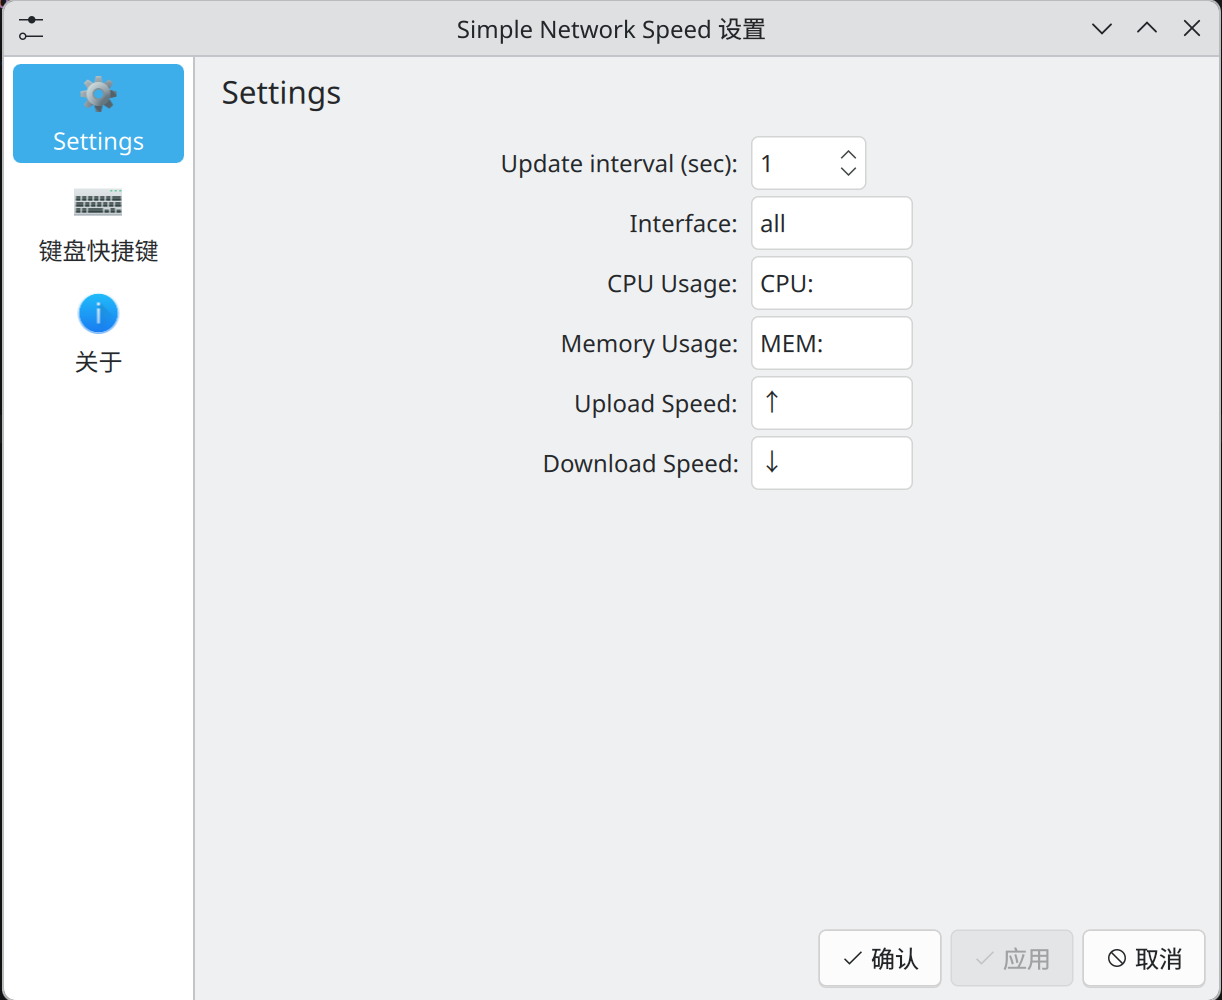
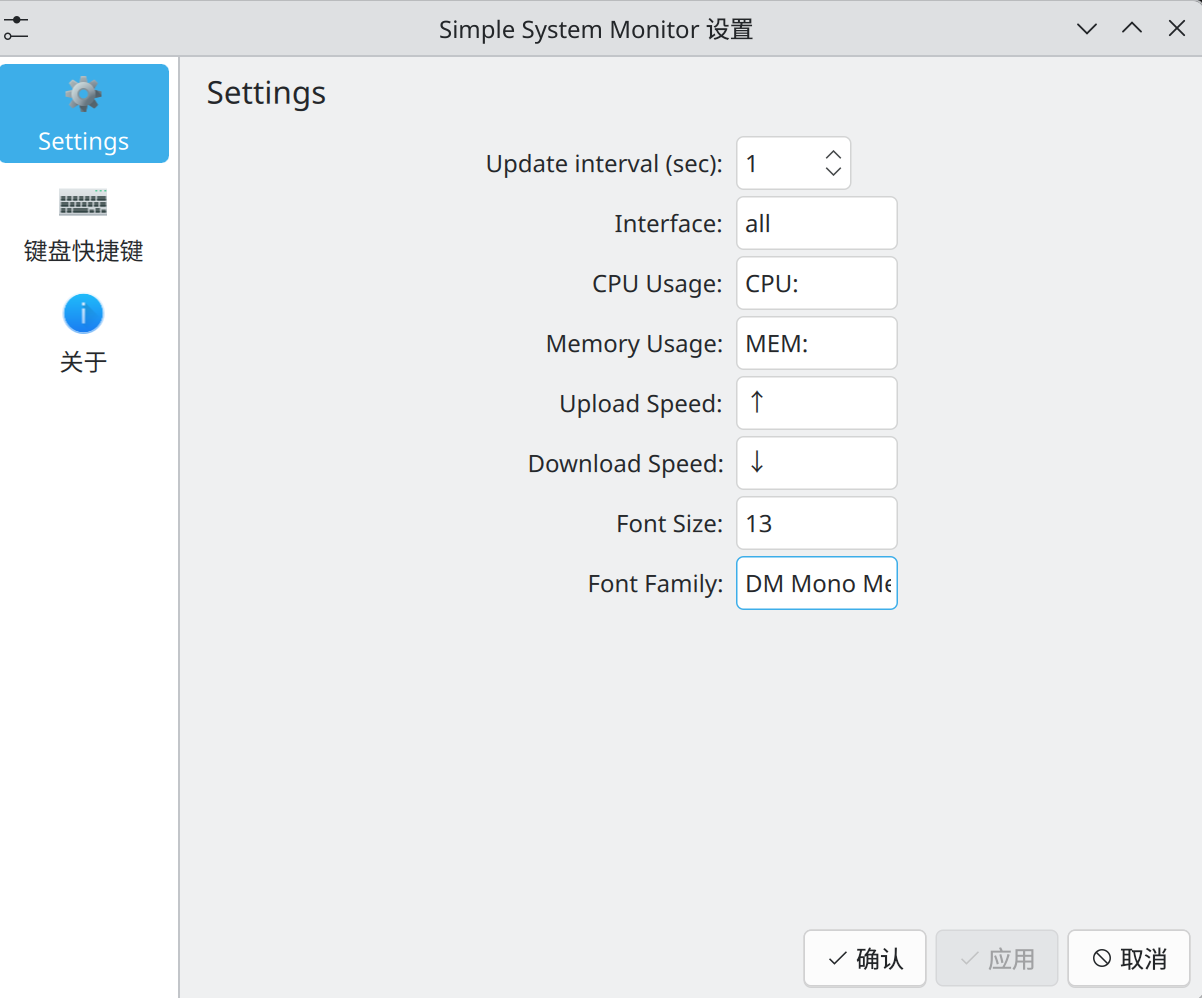
update settings.png and reorgnize datasource

diff --git a/contents/ui/main.qml b/contents/ui/main.qml
@@ -1,30 +1,26 @@
 import QtQuick
-import QtQuick.Layouts
 import QtQuick.Controls 2
-import org.kde.plasma.plasmoid
-import org.kde.plasma.core as PlasmaCore
+import QtQuick.Layouts
 import org.kde.plasma.components as PlasmaComponents
+import org.kde.plasma.core as PlasmaCore
 import org.kde.plasma.plasma5support as Plasma5Support
+import org.kde.plasma.plasmoid
 
 PlasmoidItem {
     id: root
 
-    Plasma5Support.DataSource {
-        id: launchSystemMonitor
-        engine: "executable"
-        connectedSources: []
-        onNewData: function(sourceName, data) {
-            disconnectSource(sourceName);
-        }
-    }
-
     Plasmoid.contextualActions: [
         PlasmaCore.Action {
-            text: i18nc("@item","Open System Monitor")
+            text: i18nc("@item", "Open System Monitor")
             icon.name: "utilities-system-monitor"
-            onTriggered: launchSystemMonitor.connectSource("kstart5 plasma-systemmonitor")
-        },
+            onTriggered: exec.connectSource("kstart5 plasma-systemmonitor")
+        }
     ]
+
+    readonly property string p_queryNetCommand: "cat /proc/net/dev"
+    readonly property string p_queryCpuCommand: "cat /proc/stat | head -n 1"
+    readonly property string p_queryMemCommand: "cat /proc/meminfo"
+    readonly property string p_launchSystemMonitorCommand: "kstart5 plasma-systemmonitor"
 
     readonly property int p_updateInterval: plasmoid.configuration.updateInterval || 1
     readonly property string p_interfaceName: plasmoid.configuration.interfaceName || "all"
@@ -59,99 +55,104 @@ PlasmoidItem {
     Layout.maximumWidth: metric.implicitWidth
 
     Plasma5Support.DataSource {
-        id: netSource
+        id: exec
         engine: "executable"
         connectedSources: []
-        onNewData: (sourceName, data) => {
-            let lines = data.stdout.split('\n');
-            let totalIn = 0; let totalOut = 0;
-
-            for (let i = 2; i < lines.length; i++) {
-                let line = lines[i].trim();
-                if (!line) continue;
-
-                let parts = line.replace(':', ' ').split(/\s+/);
-                let iface = parts[0];
-
-                if (iface === "lo") continue;
-
-                if (root.p_interfaceName === "all" || iface === root.p_interfaceName) {
-                    totalIn += parseInt(parts[1]) || 0;
-                    totalOut += parseInt(parts[9]) || 0;
-                }
-            }
-
-            let currentTime = Date.now();
-            let timeDiff = (currentTime - root.lastTime) / 1000;
-
-            if (root.lastTime > 0 && timeDiff > 0) {
-                downText = formatSpeed((totalIn - lastIn) / timeDiff, p_downSpeed);
-                upText = formatSpeed((totalOut - lastOut) / timeDiff, p_upSpeed);
-            }
-
-            lastIn = totalIn;
-            lastOut = totalOut;
-            root.lastTime = currentTime;
+        onNewData: function (sourceName, data) {
             disconnectSource(sourceName);
+            if (sourceName === root.p_queryNetCommand) {
+                parseNetData(data);
+            } else if (sourceName === root.p_queryCpuCommand) {
+                parseCpuData(data);
+            } else if (sourceName === root.p_queryMemCommand) {
+                parseMemData(data);
+            }
         }
     }
-    Plasma5Support.DataSource {
-        id: cpuSource
-        engine: "executable"
-        connectedSources: []
-        onNewData: (sourceName, data) => {
-            let lines = data.stdout.split('\n');
-            let cpuTotal = 0; let cpuWork = 0;
-            let line = lines[0].trim();
-            let parts = line.split(/\s+/);
 
-            cpuWork = (parseInt(parts[1]) || 0)+(parseInt(parts[2]) || 0)+ (parseInt(parts[3]) || 0);
-            cpuTotal = cpuWork+(parseInt(parts[4]) || 0)+(parseInt(parts[5]) || 0)+(parseInt(parts[6]) || 0)+
-            (parseInt(parts[7]) || 0)+(parseInt(parts[8]) || 0);
+    function parseNetData(data) {
+        let lines = data.stdout.split('\n');
+        let totalIn = 0;
+        let totalOut = 0;
 
-            let cpuUsage = (cpuWork - lastCpuWork)/(cpuTotal - lastCpuTotal) * 100;
-            if(cpuUsage >= 100) cpuUsage = 99;
-            let usageText = Math.floor(cpuUsage).toString()
-            cpuText = p_cpuUsage + " ".repeat(2-usageText.length) + usageText + "%";
+        for (let i = 2; i < lines.length; i++) {
+            let line = lines[i].trim();
+            if (!line)
+                continue;
 
-            lastCpuWork = cpuWork;
-            lastCpuTotal = cpuTotal;
-            disconnectSource(sourceName);
+            let parts = line.replace(':', ' ').split(/\s+/);
+            let iface = parts[0];
+
+            if (iface === "lo")
+                continue;
+
+            if (root.p_interfaceName === "all" || iface === root.p_interfaceName) {
+                totalIn += parseInt(parts[1]) || 0;
+                totalOut += parseInt(parts[9]) || 0;
+            }
         }
+
+        let currentTime = Date.now();
+        let timeDiff = (currentTime - root.lastTime) / 1000;
+
+        if (root.lastTime > 0 && timeDiff > 0) {
+            downText = formatSpeed((totalIn - lastIn) / timeDiff, p_downSpeed);
+            upText = formatSpeed((totalOut - lastOut) / timeDiff, p_upSpeed);
+        }
+
+        lastIn = totalIn;
+        lastOut = totalOut;
+        root.lastTime = currentTime;
     }
-    Plasma5Support.DataSource {
-        id: memSource
-        engine: "executable"
-        connectedSources: []
-        onNewData: (sourceName, data) => {
-            let lines = data.stdout.split('\n');
-            let memTotal = 0; let memAvailable = 0;
-            let line0 = lines[0].trim();
-            let parts0 = line0.split(/\s+/);
-            let line2 = lines[2].trim();
-            let parts2 = line2.split(/\s+/);
 
-            memTotal = parseInt(parts0[1]) || 0;
-            memAvailable = parseInt(parts2[1]) || 0;
+    function parseCpuData(data) {
+        let lines = data.stdout.split('\n');
+        let cpuTotal = 0;
+        let cpuWork = 0;
+        let line = lines[0].trim();
+        let parts = line.split(/\s+/);
 
-            let memUsage = (memTotal - memAvailable)/memTotal * 100;
-            if(memUsage >= 100) memUsage = 99;
-            let usageText = Math.floor(memUsage).toString()
-            memText = p_memUsage + " ".repeat(2-usageText.length) + usageText + "%";
+        cpuWork = (parseInt(parts[1]) || 0) + (parseInt(parts[2]) || 0) + (parseInt(parts[3]) || 0);
+        cpuTotal = cpuWork + (parseInt(parts[4]) || 0) + (parseInt(parts[5]) || 0) + (parseInt(parts[6]) || 0) + (parseInt(parts[7]) || 0) + (parseInt(parts[8]) || 0);
 
-            disconnectSource(sourceName);
-        }
+        let cpuUsage = (cpuWork - lastCpuWork) / (cpuTotal - lastCpuTotal) * 100;
+        if (cpuUsage >= 100)
+            cpuUsage = 99;
+        let usageText = Math.floor(cpuUsage).toString();
+        cpuText = p_cpuUsage + " ".repeat(2 - usageText.length) + usageText + "%";
+
+        lastCpuWork = cpuWork;
+        lastCpuTotal = cpuTotal;
+    }
+
+    function parseMemData(data) {
+        let lines = data.stdout.split('\n');
+        let memTotal = 0;
+        let memAvailable = 0;
+        let line0 = lines[0].trim();
+        let parts0 = line0.split(/\s+/);
+        let line2 = lines[2].trim();
+        let parts2 = line2.split(/\s+/);
+
+        memTotal = parseInt(parts0[1]) || 0;
+        memAvailable = parseInt(parts2[1]) || 0;
+
+        let memUsage = (memTotal - memAvailable) / memTotal * 100;
+        if (memUsage >= 100)
+            memUsage = 99;
+        let usageText = Math.floor(memUsage).toString();
+        memText = p_memUsage + " ".repeat(2 - usageText.length) + usageText + "%";
     }
 
     Timer {
-        interval: root.p_updateInterval * 1000;
-        running: true;
-        repeat: true;
+        interval: root.p_updateInterval * 1000
+        running: true
+        repeat: true
         triggeredOnStart: true
-        onTriggered: ()=>{
-            netSource.connectSource("cat /proc/net/dev")
-            cpuSource.connectSource("cat /proc/stat | head -n 1")
-            memSource.connectSource("cat /proc/meminfo")
+        onTriggered: {
+            exec.connectSource("cat /proc/net/dev");
+            exec.connectSource("cat /proc/stat | head -n 1");
+            exec.connectSource("cat /proc/meminfo");
         }
     }
 
@@ -159,33 +160,33 @@ PlasmoidItem {
         let num = 0;
         let unit = "B";
 
-        if( bytes < 0){
+        if (bytes < 0) {
             num = 0;
             unit = "B";
-        }else if(bytes<1000){
+        } else if (bytes < 1000) {
             num = bytes;
             unit = "B";
-        }else if(bytes<1000*1024){
+        } else if (bytes < 1000 * 1024) {
             num = bytes / 1024;
             unit = "K";
-        }else if(bytes<1000*1024*1024){
-            num = bytes / (1024*1024);
+        } else if (bytes < 1000 * 1024 * 1024) {
+            num = bytes / (1024 * 1024);
             unit = "M";
-        }else if(bytes<1000*1024*1024*1024){
-            num = bytes / (1024*1024*1024);
+        } else if (bytes < 1000 * 1024 * 1024 * 1024) {
+            num = bytes / (1024 * 1024 * 1024);
             unit = "G";
-        }else if(bytes<1000*1024*1024*1024*1024){
-            num = bytes / (1024*1024*1024*1024);
+        } else if (bytes < 1000 * 1024 * 1024 * 1024 * 1024) {
+            num = bytes / (1024 * 1024 * 1024 * 1024);
             unit = "T";
-        }else{
-            num = bytes / (1024*1024*1024*1024*1024);
+        } else {
+            num = bytes / (1024 * 1024 * 1024 * 1024 * 1024);
             unit = "P";
         }
 
         let s;
         if (num < 10) {
-            s = (Math.floor(num*10)/10).toString();
-            s = " ".repeat(3-s.length) + s;
+            s = (Math.floor(num * 10) / 10).toString();
+            s = " ".repeat(3 - s.length) + s;
         } else if (num < 100) {
             s = " " + Math.floor(num).toString();
         } else {
@@ -200,7 +201,7 @@ PlasmoidItem {
         spacing: 0
 
         PlasmaComponents.Label {
-            text: root.cpuText+root.upText
+            text: root.cpuText + root.upText
             font: metric.font
             Layout.fillWidth: true
             Layout.fillHeight: true
@@ -209,7 +210,7 @@ PlasmoidItem {
         }
 
         PlasmaComponents.Label {
-            text: root.memText+root.downText
+            text: root.memText + root.downText
             font: metric.font
             Layout.fillWidth: true
             Layout.fillHeight: true
